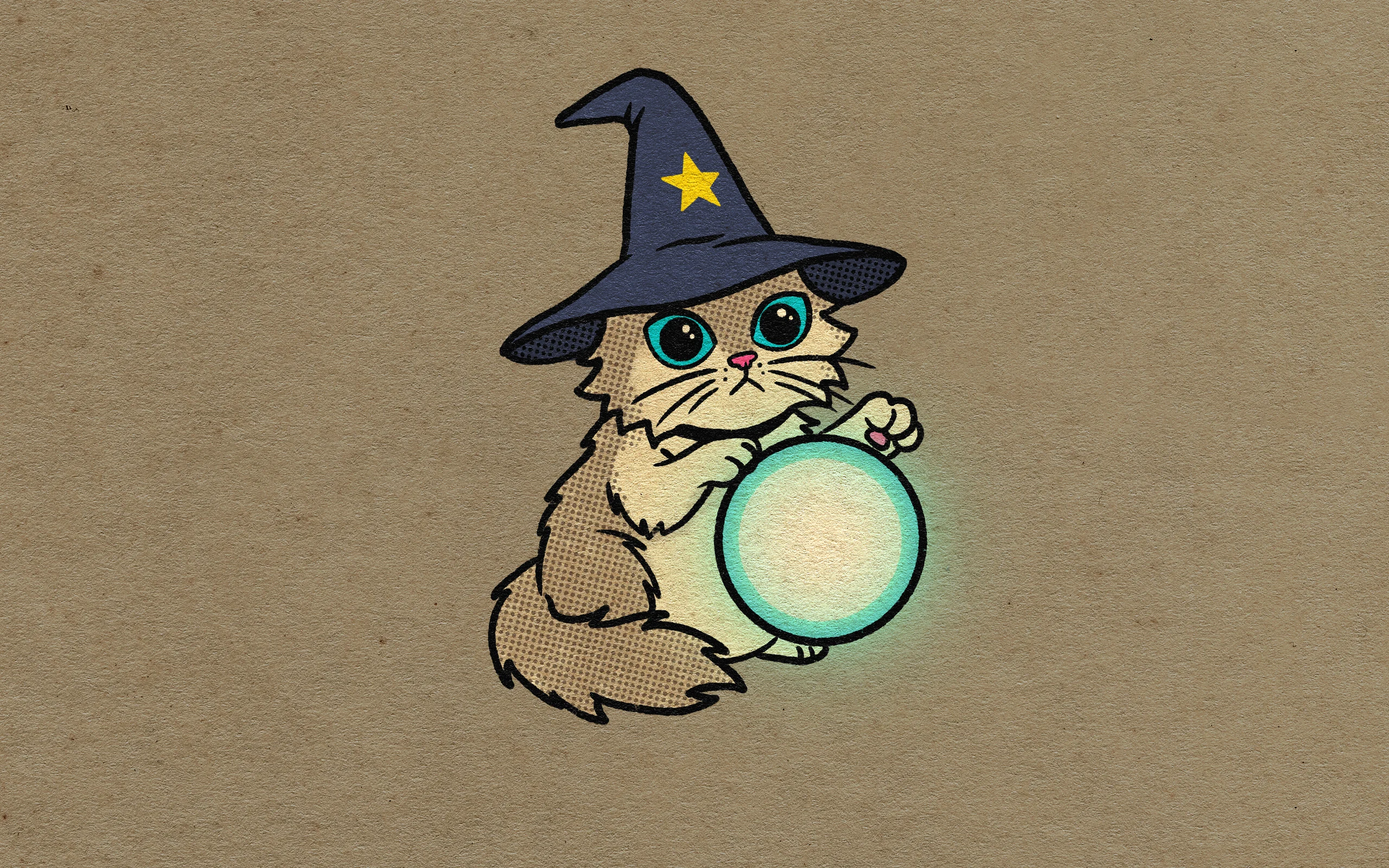
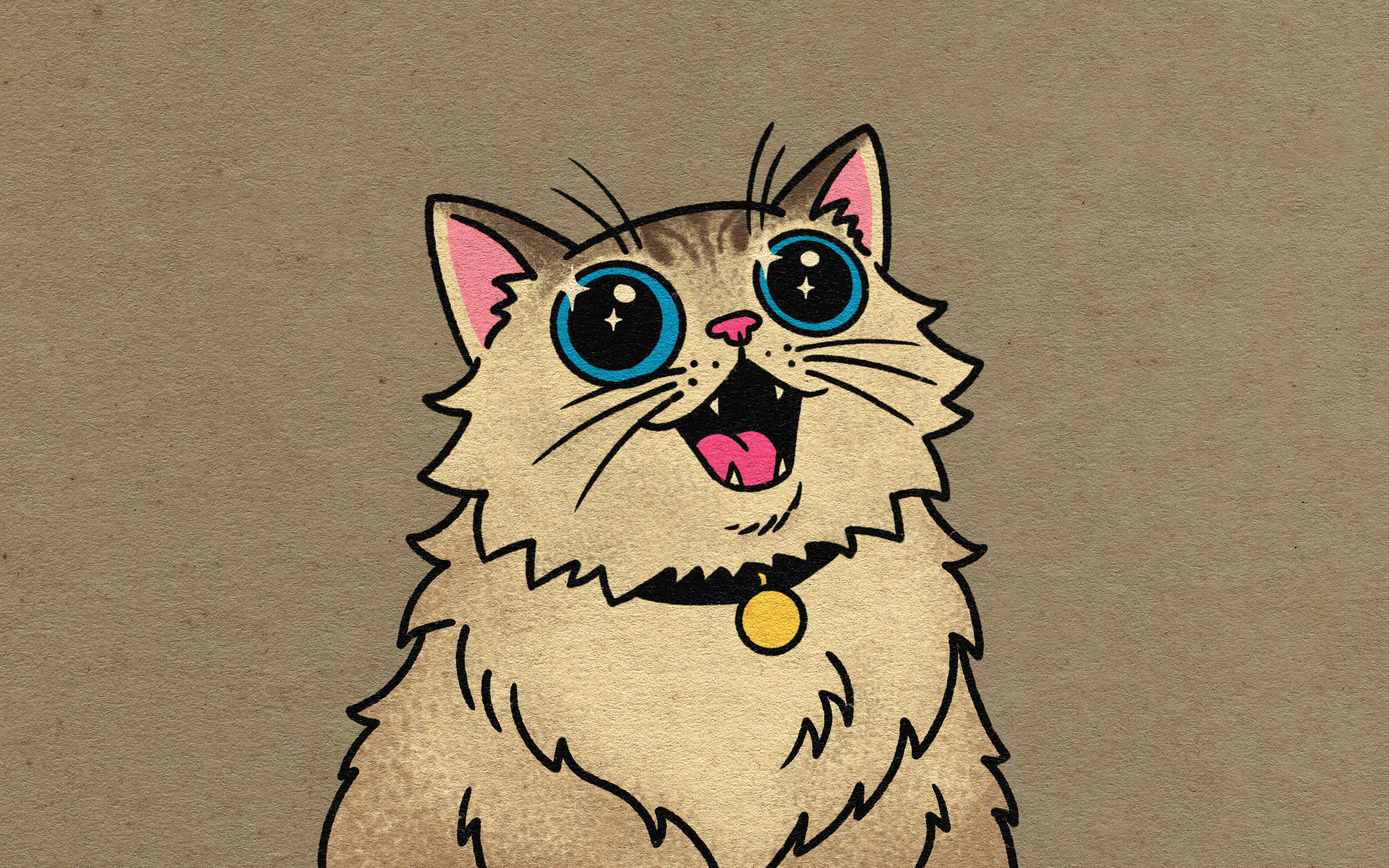
Card titles above the frame shadow; Merc Eats portrait cover; links reordered
- Titles, summaries, tags and gallery captions under a framed card are now positioned, so
  the frame's drop shadow no longer paints over them (it dimmed titles in dark mode).
- Merc Eats cover is now the portrait; the wizard takes its place in the gallery.
- Elsewhere links: Email, GitHub, Instagram, X (footer, About, menu, command palette).

diff --git a/components/work/TileMeta.tsx b/components/work/TileMeta.tsx
@@ -3,6 +3,7 @@ import type { ProjectCard } from '@/lib/work'
 /**
  * The text under a work tile or featured build: title (underline draws in on the parent link's hover),
  * year with ↗, optional summary, and the tag line. Lives inside a `group` link.
+ * Each line is `relative` so it paints above the card frame's drop shadow, which falls over it otherwise.
  */
 export function TileMeta({
   project,
@@ -18,7 +19,7 @@ export function TileMeta({
 }) {
   return (
     <>
-      <div className="mt-4 flex items-baseline justify-between gap-4">
+      <div className="relative mt-4 flex items-baseline justify-between gap-4">
         <h3 id={titleId} className="t-title text-[clamp(1.375rem,1.15rem+0.8vw,1.875rem)]">
           <span className="bg-[linear-gradient(currentColor,currentColor)] bg-[length:0%_1px] bg-left-bottom bg-no-repeat pb-0.5 transition-[background-size] duration-500 ease-out group-hover:bg-[length:100%_1px]">
             {project.title}
@@ -32,11 +33,11 @@ export function TileMeta({
         </span>
       </div>
       {showSummary && (
-        <p id={summaryId} className="mt-2 max-w-[48ch] text-fg-2">
+        <p id={summaryId} className="relative mt-2 max-w-[48ch] text-fg-2">
           {project.summary}
         </p>
       )}
-      <p className="t-label mt-2 text-fg-2">{project.tags.join(' · ')}</p>
+      <p className="t-label relative mt-2 text-fg-2">{project.tags.join(' · ')}</p>
     </>
   )
 }

diff --git a/lib/site.ts b/lib/site.ts
@@ -28,11 +28,11 @@ export type SocialLink = { label: string; href: string; handle: string }
 
 /** Leave an href empty to hide a link (LinkedIn until the URL is added). */
 const allLinks: SocialLink[] = [
-  { label: 'GitHub', href: 'https://github.com/merc99', handle: 'merc99' },
-  { label: 'LinkedIn', href: '', handle: 'Ben Woods' },
   { label: 'Email', href: `mailto:${site.email}`, handle: site.email },
-  { label: 'X', href: 'https://x.com/benwoods__', handle: '@benwoods__' },
+  { label: 'GitHub', href: 'https://github.com/merc99', handle: 'merc99' },
   { label: 'Instagram', href: 'https://www.instagram.com/benrz', handle: '@benrz' },
+  { label: 'X', href: 'https://x.com/benwoods__', handle: '@benwoods__' },
+  { label: 'LinkedIn', href: '', handle: 'Ben Woods' },
 ]
 
 export const links = allLinks.filter((l) => l.href)

diff --git a/components/work/Gallery.tsx b/components/work/Gallery.tsx
@@ -84,7 +84,7 @@ export async function Gallery({ items, title, variant }: { items: GalleryItem[];
                 )
               ) : null}
               {item.caption && (
-                <figcaption className="t-label mt-3 flex gap-3 text-fg-2">
+                <figcaption className="t-label relative mt-3 flex gap-3 text-fg-2">
                   {!playful && <span className="shrink-0">Fig. {String(fig).padStart(2, '0')}</span>}
                   <span className={cn(!item.group && 'text-[0.875rem] tracking-normal normal-case [font-family:var(--font-sans)]', 'text-fg-2')}>
                     {item.caption}
